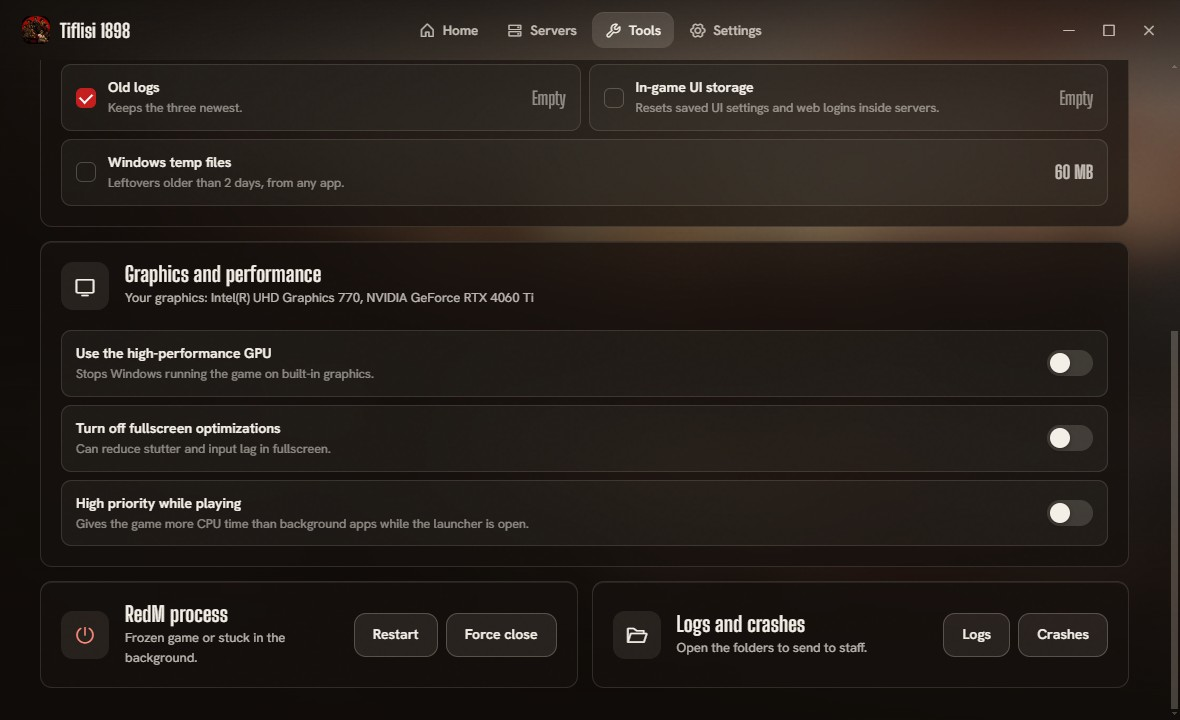
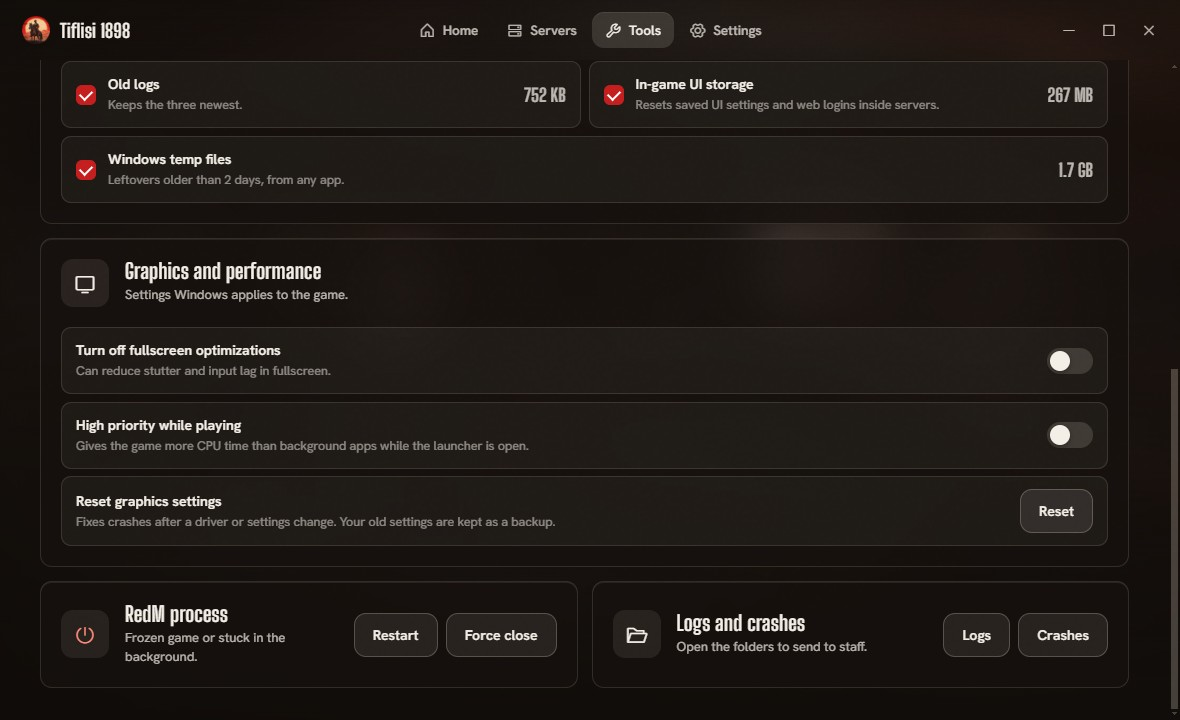
Remove the high-performance GPU switch and undo it where the launcher set it; Reset graphics uses RedM's own file
Windows' per-app 'High performance' setting changes which graphics card counts as number 0 for the game
(checked on a two-GPU PC: 'Power saving' moved the Intel card to first place). RedM saves its card as that
number (adapterIndex), so after the switch it could point at the other card, and a PC with the monitor in
the motherboard port could fail to start the game. Since 1.1.4 first start turned it on by itself.

- Gone: the Tools toggle, the checklist item and its Fix button, the Fix my game step, the first-start step
- Once, where the launcher had turned it on (its own flag), the exact value it wrote is removed; a setting
  the player made in Windows is left alone
- Reset graphics settings now renames %APPDATA%\CitizenFX\rdr3_settings\system.xml (what RedM uses), not
  the story mode file in Documents

diff --git a/src/renderer/app.js b/src/renderer/app.js
@@ -41,8 +41,7 @@ Object.assign(i18nTranslations.en, {
   "clean.empty": "Empty", "clean.btn": "Clean {size}", "clean.nothing": "Nothing selected", "clean.running": "Cleaning…",
   "clean.confirmTitle": "Delete {size}?", "clean.confirmMsg": "This can't be undone.", "clean.confirmOk": "Delete",
   "clean.done": "Freed {size}.", "clean.skipped": "{n} items were in use and skipped.",
-  "gfx.title": "Graphics and performance", "gfx.desc": "Settings Windows applies to the game.", "gfx.gpus": "Your graphics: {list}",
-  "gfx.gpu": "Use the high-performance GPU", "gfx.gpuDesc": "Stops Windows running the game on built-in graphics.",
+  "gfx.title": "Graphics and performance", "gfx.desc": "Settings Windows applies to the game.",
   "gfx.fso": "Turn off fullscreen optimizations", "gfx.fsoDesc": "Can reduce stutter and input lag in fullscreen.",
   "gfx.prio": "High priority while playing", "gfx.prioDesc": "Gives the game more CPU time than background apps while the launcher is open.",
   "gfx.reset": "Reset graphics settings", "gfx.resetDesc": "Fixes crashes after a driver or settings change. Your old settings are kept as a backup.", "gfx.resetBtn": "Reset",
@@ -61,7 +60,6 @@ Object.assign(i18nTranslations.en, {
   "ready.redm": "RedM is installed", "ready.redmBad": "RedM is not installed", "ready.get": "Get RedM",
   "ready.game": "Red Dead Redemption 2 found", "ready.gameBad": "RedM doesn't know where your game is yet. Open RedM once and pick the game folder.",
   "ready.branch": "Game version matches {server} ({b})", "ready.branchBad": "{server} uses the {b} game version", "ready.switch": "Switch",
-  "ready.gpu": "The game uses your fast graphics card", "ready.gpuBad": "The game may run on your slower built-in graphics", "ready.turnOn": "Turn on",
   "ready.disk": "{size} free on the RedM drive", "ready.diskBad": "Only {size} free on the RedM drive. Server downloads can fail.", "ready.freeUp": "Free up space",
   "ready.trouble": "Still having trouble?",
   "ready.links": "Join links from Discord and websites open RedM", "ready.linksBad": "Join links from Discord and websites can't open RedM", "ready.repair": "Repair",
@@ -69,7 +67,7 @@ Object.assign(i18nTranslations.en, {
   "fix.title": "Fix my game", "fix.btn": "Fix my game",
   "fix.desc": "Not loading, stuck or crashing? This closes RedM, clears the server and RedM caches and applies the recommended settings. Your game files and characters are not touched.",
   "fix.confirmTitle": "Fix my game?", "fix.confirmMsg": "RedM will close. Server files download again the next time you join.",
-  "fix.stepClose": "Close RedM", "fix.stepCache": "Clear the server and RedM caches", "fix.stepBranch": "Switch to the {b} game version", "fix.stepGpu": "Use the fast graphics card",
+  "fix.stepClose": "Close RedM", "fix.stepCache": "Clear the server and RedM caches", "fix.stepBranch": "Switch to the {b} game version",
   "fix.done": "Done. Join the server again.", "fix.partly": "Some steps didn't work. Close RedM fully and try again, or ask staff for help.",
   "crash.title": "RedM crashed", "crash.copy": "Copy report for staff", "crash.copied": "Report copied. Paste it to staff on Discord.",
   "crash.cause.memory": "Your PC ran out of memory. Close other programs (browser, recording apps) and try again. If it keeps happening, lower Texture Quality.",
@@ -80,7 +78,7 @@ Object.assign(i18nTranslations.en, {
   "crash.cause.unknown": "We couldn't tell what caused it. Copy the report and send it to staff.",
   "welcome.title": "Welcome to {server}", "welcome.sub": "Set up for you, nothing else to do:",
   "welcome.lang": "Language: {lang}", "welcome.server": "{server} is your server, ready to join",
-  "welcome.gpu": "The game uses your fast graphics card", "welcome.links": "Join links from Discord and websites repaired",
+  "welcome.links": "Join links from Discord and websites repaired",
   "welcome.shortcut": "Shortcuts on your Desktop and in the Start Menu",
   "name.label": "Your name in game", "name.desc": "What other players and staff see. Saved straight into RedM.", "name.save": "Save",
   "name.madeUp": "RedM made this name up. Change it to the name you want others to see.", "name.current": "This is the name other players see.",
@@ -123,8 +121,7 @@ Object.assign(i18nTranslations.ka, {
   "clean.empty": "ცარიელია", "clean.btn": "გასუფთავება ({size})", "clean.nothing": "არაფერია მონიშნული", "clean.running": "სუფთავდება…",
   "clean.confirmTitle": "წაიშალოს {size}?", "clean.confirmMsg": "ამის დაბრუნება შეუძლებელია.", "clean.confirmOk": "წაშლა",
   "clean.done": "გათავისუფლდა {size}.", "clean.skipped": "{n} ფაილი გამოყენებაშია და გამოტოვდა.",
-  "gfx.title": "გრაფიკა და წარმადობა", "gfx.desc": "პარამეტრები, რომლებსაც Windows თამაშზე იყენებს.", "gfx.gpus": "თქვენი ვიდეოკარტები: {list}",
-  "gfx.gpu": "ძლიერი ვიდეოკარტის გამოყენება", "gfx.gpuDesc": "Windows აღარ გაუშვებს თამაშს ჩაშენებულ გრაფიკაზე.",
+  "gfx.title": "გრაფიკა და წარმადობა", "gfx.desc": "პარამეტრები, რომლებსაც Windows თამაშზე იყენებს.",
   "gfx.fso": "სრული ეკრანის ოპტიმიზაციის გამორთვა", "gfx.fsoDesc": "შეიძლება შეამციროს ლაგი და შეყოვნება სრულ ეკრანზე.",
   "gfx.prio": "მაღალი პრიორიტეტი თამაშისას", "gfx.prioDesc": "სანამ ლაუნჩერი ღიაა, თამაში ფონურ პროგრამებზე მეტ პროცესორის დროს იღებს.",
   "gfx.reset": "გრაფიკის პარამეტრების განულება", "gfx.resetDesc": "აგვარებს კრაშებს დრაივერის ან პარამეტრების შეცვლის შემდეგ. ძველი პარამეტრები სარეზერვოდ შეინახება.", "gfx.resetBtn": "განულება",
@@ -143,7 +140,6 @@ Object.assign(i18nTranslations.ka, {
   "ready.redm": "RedM დაინსტალირებულია", "ready.redmBad": "RedM არ არის დაინსტალირებული", "ready.get": "RedM-ის ჩამოტვირთვა",
   "ready.game": "Red Dead Redemption 2 ნაპოვნია", "ready.gameBad": "RedM-მა ჯერ არ იცის, სადაა თამაში. ერთხელ გახსენით RedM და მიუთითეთ თამაშის საქაღალდე.",
   "ready.branch": "თამაშის ვერსია ემთხვევა {server}-ს ({b})", "ready.branchBad": "{server} იყენებს თამაშის {b} ვერსიას", "ready.switch": "გადართვა",
-  "ready.gpu": "თამაში ძლიერ ვიდეოკარტას იყენებს", "ready.gpuBad": "თამაში შეიძლება სუსტ, ჩაშენებულ გრაფიკაზე გაეშვას", "ready.turnOn": "ჩართვა",
   "ready.disk": "RedM-ის დისკზე თავისუფალია {size}", "ready.diskBad": "RedM-ის დისკზე მხოლოდ {size} არის თავისუფალი. სერვერის ჩამოტვირთვა შეიძლება ჩავარდეს.", "ready.freeUp": "ადგილის გათავისუფლება",
   "ready.trouble": "ისევ პრობლემაა?",
   "ready.links": "Discord-ისა და საიტების შესვლის ბმულები RedM-ს ხსნის", "ready.linksBad": "Discord-ისა და საიტების შესვლის ბმულები RedM-ს ვერ ხსნის", "ready.repair": "შეკეთება",
@@ -151,7 +147,7 @@ Object.assign(i18nTranslations.ka, {
   "fix.title": "თამაშის გამოსწორება", "fix.btn": "გამოსწორება",
   "fix.desc": "არ იტვირთება, გაჭედა ან ითიშება? ეს დახურავს RedM-ს, გაასუფთავებს სერვერის და RedM-ის ქეშს და ჩართავს რეკომენდებულ პარამეტრებს. თამაშის ფაილები და პერსონაჟები ხელუხლებელი რჩება.",
   "fix.confirmTitle": "გამოვასწოროთ თამაში?", "fix.confirmMsg": "RedM დაიხურება. სერვერის ფაილები შემდეგ შესვლაზე თავიდან ჩამოიტვირთება.",
-  "fix.stepClose": "RedM-ის დახურვა", "fix.stepCache": "სერვერის და RedM-ის ქეშის გასუფთავება", "fix.stepBranch": "{b} ვერსიაზე გადართვა", "fix.stepGpu": "ძლიერი ვიდეოკარტის ჩართვა",
+  "fix.stepClose": "RedM-ის დახურვა", "fix.stepCache": "სერვერის და RedM-ის ქეშის გასუფთავება", "fix.stepBranch": "{b} ვერსიაზე გადართვა",
   "fix.done": "მზადაა. შედით სერვერზე თავიდან.", "fix.partly": "ზოგიერთი ნაბიჯი ვერ შესრულდა. სრულად დახურეთ RedM და სცადეთ თავიდან, ან მიმართეთ ადმინისტრაციას.",
   "crash.title": "RedM გაითიშა", "crash.copy": "ანგარიშის კოპირება", "crash.copied": "ანგარიში დაკოპირდა. ჩასვით Discord-ზე ადმინისტრაციისთვის.",
   "crash.cause.memory": "კომპიუტერს მეხსიერება ამოეწურა. დახურეთ სხვა პროგრამები (ბრაუზერი, ჩამწერი აპები) და სცადეთ თავიდან. თუ განმეორდა, შეამცირეთ Texture Quality.",
@@ -162,7 +158,7 @@ Object.assign(i18nTranslations.ka, {
   "crash.cause.unknown": "მიზეზი ვერ დავადგინეთ. დააკოპირეთ ანგარიში და გაუგზავნეთ ადმინისტრაციას.",
   "welcome.title": "კეთილი იყოს თქვენი მობრძანება {server}-ში", "welcome.sub": "ყველაფერი მოწყობილია, სხვა არაფერია გასაკეთებელი:",
   "welcome.lang": "ენა: {lang}", "welcome.server": "{server} თქვენი სერვერია, მზადაა შესასვლელად",
-  "welcome.gpu": "თამაში ძლიერ ვიდეოკარტას იყენებს", "welcome.links": "Discord-ისა და საიტების შესვლის ბმულები შეკეთდა",
+  "welcome.links": "Discord-ისა და საიტების შესვლის ბმულები შეკეთდა",
   "welcome.shortcut": "მალსახმობები სამუშაო მაგიდაზე და Start მენიუში",
   "name.label": "თქვენი სახელი თამაშში", "name.desc": "რასაც სხვა მოთამაშეები და ადმინისტრაცია ხედავს. პირდაპირ RedM-ში ინახება.", "name.save": "შენახვა",
   "name.madeUp": "ეს სახელი RedM-მა შემთხვევით შეარჩია. შეცვალეთ იმ სახელით, რომლითაც გინდათ, რომ გიცნობდნენ.", "name.current": "ამ სახელს ხედავენ სხვა მოთამაშეები.",
@@ -1257,10 +1253,8 @@ async function refreshGraphics() {
 
 function renderGraphics(g) {
   lastGfx = g
-  document.getElementById("gfx-gpus").textContent = g.gpus.length ? t("gfx.gpus").replace("{list}", g.gpus.join(", ")) : t("gfx.desc")
-  document.getElementById("gfx-gpu").checked = g.gpuHigh
   document.getElementById("gfx-fso").checked = g.fsoOff
-  document.getElementById("gfx-gpu").disabled = document.getElementById("gfx-fso").disabled = !g.exes
+  document.getElementById("gfx-fso").disabled = !g.exes
   document.getElementById("gfx-prio").checked = localStorage.getItem("gfxPrio") === "true"
   document.getElementById("gfx-reset-row").hidden = !g.hasSettings
 }
@@ -1273,7 +1267,6 @@ function initGraphics(fail) {
       say(t("tools.done"))
     })
   }
-  bind("gfx-gpu", "gfxGpu", window.launcher.setGpu)
   bind("gfx-fso", "gfxFso", window.launcher.setFso)
   bind("gfx-prio", "gfxPrio", window.launcher.setPriorityBoost)
   document.getElementById("gfx-reset").onclick = async function () {
@@ -1283,7 +1276,9 @@ function initGraphics(fail) {
     refreshGraphics()
   }
   // Re-apply on every launch: a new RedM game build brings a new exe that needs the same settings.
-  if (localStorage.getItem("gfxGpu") === "true") window.launcher.setGpu(true)
+  // Up to 1.1.6 the launcher could turn on "High performance GPU" for the game (see graphics.js undoGpu).
+  // Undo it once, only where the launcher itself turned it on: a setting the player made in Windows stays.
+  if (localStorage.getItem("gfxGpu") === "true") window.launcher.undoGpu().then(function () { localStorage.removeItem("gfxGpu") })
   if (localStorage.getItem("gfxFso") === "true") window.launcher.setFso(true)
   if (localStorage.getItem("gfxPrio") === "true") window.launcher.setPriorityBoost(true)
 }
@@ -1328,7 +1323,6 @@ function readyItems() {
     var okB = r.channel === config.recommendedBranch
     items.push({ ok: okB, text: t(okB ? "ready.branch" : "ready.branchBad").replace("{server}", brand.name).replace("{b}", branchLabel(config.recommendedBranch)), fix: "set-branch", fixLabel: t("ready.switch") })
   }
-  if (r.gpus > 1) items.push({ ok: r.gpuHigh, text: t(r.gpuHigh ? "ready.gpu" : "ready.gpuBad"), fix: "set-gpu", fixLabel: t("ready.turnOn") })
   if (nameInfo && r.redm) items.push({ ok: !nameInfo.madeUp, text: nameInfo.madeUp ? t("ready.nameBad").replace("{name}", nameInfo.name || "?") : t("ready.name").replace("{name}", nameInfo.name), fix: "name", fixLabel: t("ready.change") })
   if (r.freeBytes != null) {
     var okD = r.freeBytes > 15 * GB
@@ -1366,7 +1360,6 @@ async function readyFix(what) {
   if (what === "free-space") { toggleReady(false); return switchNav("tools") }
   if (what === "name") { toggleReady(false); switchNav("settings"); return document.getElementById("settings-name").focus() }
   if (what === "set-branch") await window.launcher.setChannel(config.recommendedBranch)
-  if (what === "set-gpu") { localStorage.setItem("gfxGpu", "true"); await window.launcher.setGpu(true) }
   if (what === "repair-links") await window.launcher.repairLinks()
   say(t("tools.done"))
   refreshReady()
@@ -1405,9 +1398,6 @@ async function fixMyGame() {
       var x = await window.launcher.setChannel(config.recommendedBranch)
       if (!x.success) throw new Error(x.error)
     } })
-  }
-  if (r.gpus > 1 && !r.gpuHigh) {
-    steps.push({ label: t("fix.stepGpu"), run: async function () { localStorage.setItem("gfxGpu", "true"); await window.launcher.setGpu(true) } })
   }
   var o = document.createElement("div")
   o.className = "error-overlay"
@@ -1532,11 +1522,6 @@ async function firstRun() {
   if (!localStorage.getItem("firstRunDone")) {
     var r = ready || (await window.launcher.readiness().catch(function () { return null }))
     var done = ["lang", "server"]
-    if (r && r.gpus > 1 && !r.gpuHigh) {
-      localStorage.setItem("gfxGpu", "true")
-      await window.launcher.setGpu(true)
-      done.push("gpu")
-    }
     if (r && r.redm && !r.links) {
       var x = await window.launcher.repairLinks().catch(function () { return null })
       if (x && x.success) done.push("links")
@@ -1552,6 +1537,7 @@ function renderWelcome() {
   var done = []
   try { done = JSON.parse(localStorage.getItem("firstRunDone")) || [] } catch (e) {}
   if (!Array.isArray(done) || localStorage.getItem("welcomeClosed")) return
+  done = done.filter(function (k) { return k !== "gpu" }) // listed by 1.1.4–1.1.6; undone since
   document.getElementById("welcome-title").textContent = t("welcome.title").replace("{server}", brand.name)
   document.getElementById("welcome-done").innerHTML = done.map(function (k) {
     // Native name from the launcher's own list (the system's language names don't cover Georgian).

diff --git a/src/main/graphics.js b/src/main/graphics.js
@@ -1,5 +1,4 @@
 // Graphics and performance tweaks, all per-user and reversible:
-//  - GPU preference: the same per-app setting as Windows Settings > Display > Graphics (HKCU).
 //  - Fullscreen optimizations: the same per-app compatibility flag as the exe's Properties > Compatibility tab (HKCU).
 //  - High priority: raises the running game process's priority while the launcher is open.
 const { execFile, exec } = require("child_process")
@@ -44,20 +43,17 @@ function gameExes(redmRoot, gamePath) {
 }
 
 async function state(exes) {
-  if (!exes.length) return { gpuHigh: false, fsoOff: false }
-  const gpu = await Promise.all(exes.map((e) => regGet(GPU_KEY, e)))
+  if (!exes.length) return { fsoOff: false }
   const fso = await Promise.all(exes.map((e) => regGet(LAYERS_KEY, e)))
-  return {
-    gpuHigh: gpu.every((v) => v === HIGH_GPU),
-    fsoOff: fso.every((v) => String(v || "").split(/\s+/).includes(FSO_FLAG)),
-  }
+  return { fsoOff: fso.every((v) => String(v || "").split(/\s+/).includes(FSO_FLAG)) }
 }
 
-async function setGpu(exes, on) {
-  for (const e of exes) {
-    if (on) await regSet(GPU_KEY, e, HIGH_GPU)
-    else if ((await regGet(GPU_KEY, e)) === HIGH_GPU) await regDel(GPU_KEY, e) // only undo what we set
-  }
+// Launchers up to 1.1.6 could set "High performance GPU" (Windows Settings > Display > Graphics) for the game.
+// Removed: it changes which graphics card counts as number 0, so RedM's saved adapterIndex can point at the
+// wrong card, and a PC with the monitor in the motherboard port can stop starting the game. This only
+// removes the exact value those launchers wrote.
+async function undoGpu(exes) {
+  for (const e of exes) if ((await regGet(GPU_KEY, e)) === HIGH_GPU) await regDel(GPU_KEY, e)
 }
 
 async function setFso(exes, on) {
@@ -74,11 +70,6 @@ async function registerProtocol(name, title, exe) {
   await reg(["add", key, "/ve", "/t", "REG_SZ", "/d", title, "/f"])
   await reg(["add", key, "/v", "URL Protocol", "/t", "REG_SZ", "/d", "", "/f"])
   await reg(["add", key + "\\shell\\open\\command", "/ve", "/t", "REG_SZ", "/d", '"' + exe + '" "%1"', "/f"])
-}
-
-function gpuNames() {
-  return new Promise((r) => exec('powershell -NoProfile -Command "(Get-CimInstance Win32_VideoController).Name"', { windowsHide: true }, (err, out) =>
-    r(err ? [] : out.split(/\r?\n/).map((s) => s.trim()).filter(Boolean))))
 }
 
 // High priority while playing: every 15 s, raise any running RedM game process.
@@ -100,4 +91,4 @@ function setPriorityBoost(on) {
   boostTimer = setInterval(tick, 15000)
 }
 
-module.exports = { gameExes, state, setGpu, setFso, gpuNames, setPriorityBoost, mergeLayers, registerProtocol, regGet }
+module.exports = { gameExes, state, undoGpu, setFso, setPriorityBoost, mergeLayers, registerProtocol, regGet }

diff --git a/src/main/main.js b/src/main/main.js
@@ -341,27 +341,25 @@ ipcMain.handle("cleanup-run", async (_, ids) => {
 
 const gameDir = () => ((readIni() || "").match(/^IVPath=(.*)$/m) || [])[1]?.trim()
 const exes = () => graphics.gameExes(path.dirname(redmDir), gameDir())
-const systemXml = () => path.join(app.getPath("documents"), "Rockstar Games", "Red Dead Redemption 2", "Settings", "system.xml")
+// RedM keeps its own graphics settings here, not in Documents\Rockstar Games (that one is story mode's).
+const systemXml = () => path.join(app.getPath("appData"), "CitizenFX", "rdr3_settings", "system.xml")
 
 ipcMain.handle("graphics-info", async () => ({
   ...(await graphics.state(exes())),
-  gpus: await graphics.gpuNames(),
   exes: exes().length,
   hasSettings: fs.existsSync(systemXml()),
 }))
-ipcMain.handle("set-gpu", (_, on) => graphics.setGpu(exes(), !!on))
+ipcMain.handle("undo-gpu", () => graphics.undoGpu(exes()))
 ipcMain.handle("set-fso", (_, on) => graphics.setFso(exes(), !!on))
 ipcMain.handle("set-priority-boost", (_, on) => graphics.setPriorityBoost(!!on))
 
 // ── Ready to play: the checks behind the Home checklist ──
 
-let gpuCount = null // graphics cards don't change while the launcher runs
 ipcMain.handle("readiness", async () => {
   const ini = readIni() || ""
   const channel = ((ini.match(/^UpdateChannel=(.*)$/m) || [])[1] || "production").trim()
   const game = gameDir()
-  if (gpuCount === null) gpuCount = (await graphics.gpuNames()).length
-  const [exe, protocol, gfx] = await Promise.all([redmExe(), getProtocolExe(), graphics.state(exes())])
+  const [exe, protocol] = await Promise.all([redmExe(), getProtocolExe()])
   let freeBytes = null
   try { const s = await fs.promises.statfs(fs.existsSync(redmDir) ? redmDir : app.getPath("home")); freeBytes = s.bavail * s.bsize } catch (e) {}
   return {
@@ -369,8 +367,6 @@ ipcMain.handle("readiness", async () => {
     links: !!protocol && fs.existsSync(protocol), // redm:// links from Discord and websites open RedM
     game: !!game && fs.existsSync(path.join(game, "RDR2.exe")),
     channel,
-    gpus: gpuCount,
-    gpuHigh: gfx.gpuHigh,
     freeBytes,
   }
 })

diff --git a/src/renderer/index.html b/src/renderer/index.html
@@ -204,11 +204,10 @@
           <div class="tool-icon"><i class="ph ph-monitor"></i></div>
           <div class="tool-text">
             <p class="tool-label" data-i18n="gfx.title">Graphics and performance</p>
-            <p class="tool-desc" id="gfx-gpus"></p>
+            <p class="tool-desc" data-i18n="gfx.desc">Settings Windows applies to the game.</p>
           </div>
           <span></span>
           <div class="switch-list">
-            <label class="switch-row"><span class="row-text"><span class="check-label" data-i18n="gfx.gpu">Use the high-performance GPU</span><span class="check-desc" data-i18n="gfx.gpuDesc">Stops Windows running the game on built-in graphics.</span></span><span class="toggle"><input type="checkbox" id="gfx-gpu"><span class="toggle-track"></span></span></label>
             <label class="switch-row"><span class="row-text"><span class="check-label" data-i18n="gfx.fso">Turn off fullscreen optimizations</span><span class="check-desc" data-i18n="gfx.fsoDesc">Can reduce stutter and input lag in fullscreen.</span></span><span class="toggle"><input type="checkbox" id="gfx-fso"><span class="toggle-track"></span></span></label>
             <label class="switch-row"><span class="row-text"><span class="check-label" data-i18n="gfx.prio">High priority while playing</span><span class="check-desc" data-i18n="gfx.prioDesc">Gives the game more CPU time than background apps while the launcher is open.</span></span><span class="toggle"><input type="checkbox" id="gfx-prio"><span class="toggle-track"></span></span></label>
             <div class="switch-row" id="gfx-reset-row" hidden><span class="row-text"><span class="check-label" data-i18n="gfx.reset">Reset graphics settings</span><span class="check-desc" data-i18n="gfx.resetDesc">Fixes crashes after a driver or settings change. Your old settings are kept as a backup.</span></span><button class="btn glass" id="gfx-reset" data-i18n="gfx.resetBtn">Reset</button></div>

diff --git a/src/main/preload.js b/src/main/preload.js
@@ -23,7 +23,7 @@ contextBridge.exposeInMainWorld("launcher", {
   cleanupScanOne: call("cleanup-scan-one"),
   cleanupRun: call("cleanup-run"),
   graphicsInfo: call("graphics-info"),
-  setGpu: call("set-gpu"),
+  undoGpu: call("undo-gpu"),
   setFso: call("set-fso"),
   setPriorityBoost: call("set-priority-boost"),
   resetGraphics: call("reset-graphics"),

diff --git a/README.md b/README.md
@@ -1,6 +1,6 @@
 # Tiflisi Launcher
 
-A free, open-source launcher for RedM servers. One server is featured on the home page (yours), and players can still browse and join any other server. It also fixes the usual player problems: wrong client branch, broken caches, the game running on the wrong GPU.
+A free, open-source launcher for RedM servers. One server is featured on the home page (yours), and players can still browse and join any other server. It also fixes the usual player problems: wrong client branch, broken caches, broken join links.
 
 **Download: [launcher.tiflisi.cloud](https://launcher.tiflisi.cloud)** (Windows 10 / 11) · [Code signing policy](#code-signing-policy)
 
@@ -13,7 +13,7 @@ A free, open-source launcher for RedM servers. One server is featured on the hom
 | ![All public RedM servers with search and filters](docs/screenshots/servers-browse.jpg) | ![Favorite servers with their Cfx banners](docs/screenshots/servers-favorites.jpg) |
 | **All servers**: every public RedM server, with search, language and tag filters. | **Favorites**: your saved servers with live players and ping. |
 | ![Tools: client branch and cleanup](docs/screenshots/tools.jpg) | ![Tools: graphics and performance](docs/screenshots/tools-graphics.jpg) |
-| **Tools**: switch the client branch and clean caches, with live sizes. | **Graphics and performance**: high-performance GPU, fullscreen optimizations, priority. |
+| **Tools**: switch the client branch and clean caches, with live sizes. | **Graphics and performance**: fullscreen optimizations, priority, reset RedM's graphics settings. |
 | ![Settings: language, updates, usage stats, about](docs/screenshots/settings.jpg) | ![Home in Georgian](docs/screenshots/home-georgian.jpg) |
 | **Settings**: one-click updates, privacy switch, source code link. | **31 languages**. English and Georgian cover every screen; the others fall back to English for the newest ones. |
 
@@ -22,9 +22,9 @@ Shown with the [Tiflisi 1898](https://cfx.re/join/dg346jd) branding. Every name,
 ## Features
 
 - **Featured server**: live status, players, your own ping, one-click join.
-- **Nothing to set up**: on first start the launcher opens in Georgian on the Tiflisi server, turns on the fast graphics card on PCs with two, repairs broken `redm://` join links, and adds Start Menu and Desktop shortcuts. A small welcome card says what it did and asks for your name in game. It never accepts RedM's or Rockstar's terms for you: those stay your own choice.
+- **Nothing to set up**: on first start the launcher opens in Georgian on the Tiflisi server, repairs broken `redm://` join links, and adds Start Menu and Desktop shortcuts. A small welcome card says what it did and asks for your name in game. It never accepts RedM's or Rockstar's terms for you: those stay your own choice.
 - **Name in game**: set your RedM player name right in the launcher (welcome card or Settings). It's written into RedM's own settings, so there's no need to open RedM first.
-- **Ready to play**: one line under Join says "Ready to play" or how many things need fixing (RedM installed, game found, join links working, right game version, fast graphics card, free disk space). Every problem has a Fix button.
+- **Ready to play**: one line under Join says "Ready to play" or how many things need fixing (RedM installed, game found, join links working, right game version, free disk space). Every problem has a Fix button.
 - **Fix my game**: one button that closes RedM, clears the server and RedM caches and applies the recommended settings, with a plain list of what it did.
 - **Crash helper**: when RedM crashes, the launcher reads RedM's log, explains the likely cause in plain words and offers "Copy report for staff".
 - **Alerts and auto-join**: a Windows notification when the server is back online; on a full server, Join waits and joins as soon as a slot opens.
@@ -34,7 +34,8 @@ Shown with the [Tiflisi 1898](https://cfx.re/join/dg346jd) branding. Every name,
 - **Tools tab** (fixes for the usual player problems):
   - Switch the client branch (production / beta / canary / your own presets / custom). It edits `CitizenFX.ini` and keeps a `.bak` copy.
   - Clean up, with live sizes: server cache, RedM app cache, GPU shader cache, crash dumps, old logs, in-game UI storage, Windows temp (older than 2 days). The sign-in session and the newest logs are kept.
-  - Graphics and performance: use the high-performance GPU, turn off fullscreen optimizations (both per-app Windows settings, reversible), high priority while playing, and reset graphics settings (keeps a backup).
+  - Graphics and performance: turn off fullscreen optimizations (a per-app Windows setting, reversible), high priority while playing, and reset RedM's graphics settings (`%APPDATA%\CitizenFX\rdr3_settings\system.xml`, keeps a backup).
+  - The launcher never changes which graphics card the game uses. Versions up to 1.1.6 could turn on Windows' "High performance" GPU setting for RedM (since 1.1.4 even by themselves on first start). That reorders the graphics cards, so RedM's saved card number can point at the wrong one, and on a PC with the monitor in the motherboard port the game may not start. 1.1.7 removes the setting wherever the launcher turned it on, and leaves it alone if you set it yourself in Windows.
   - Restart or force-close RedM, open the logs and crashes folders.
 - **Launcher-join detection**: the `server-resource/launcher_check` resource tells you who joined through the launcher, and can require it.
 - **Discord Rich Presence**: set `discordClientId` to show "Playing on <server>" (no extra dependency).
